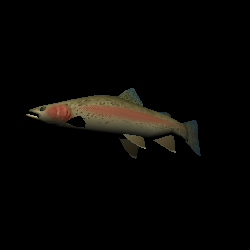
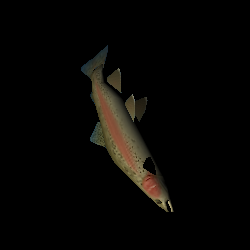
Add randomness to images with rotation

Changed region(s): [[0.112, 0.168, 0.812, 0.868]]

diff --git a/main.cpp b/main.cpp
@@ -52,7 +52,8 @@ struct SingleImageConfiguration {
 	const std::string outputPath = "../rendered.png";
 	const Ogre::uint32 width;
 	const Ogre::uint32 height;
-	const std::function< Ogre::Vector3 (const Ogre::Vector3& point) > randomnessProvider = [] (const Ogre::Vector3& point) { return point; };
+	const std::function< Ogre::Vector3 (const Ogre::Vector3& point) > randomnessProviderPosition = [] (const Ogre::Vector3& point) { return point; };
+	const std::function< Ogre::Radian () > randomnessProviderRotation = [] () { return Ogre::Radian(); };
 };
 
 struct ProcessConfigurator {
@@ -61,6 +62,7 @@ struct ProcessConfigurator {
 
 void create(const ProcessConfigurator& configurator) {
 	const auto initialCameraPosition = Ogre::Vector3(0, 0, 15);
+	const auto lookAtVector = Ogre::Vector3(0, 0, -1);
 
 	auto app = SyntheticImageGenerator();
 	app.initApp();
@@ -82,7 +84,7 @@ void create(const ProcessConfigurator& configurator) {
 	// also need to tell where we are
 	Ogre::SceneNode *camNode = scnMgr->getRootSceneNode()->createChildSceneNode();
 	camNode->setPosition(initialCameraPosition);
-	camNode->lookAt(Ogre::Vector3(0, 0, -1), Ogre::Node::TS_PARENT);
+	camNode->lookAt(lookAtVector, Ogre::Node::TS_PARENT);
 
 	// create the camera
 	Ogre::Camera *cam = scnMgr->createCamera("myCam");
@@ -139,22 +141,28 @@ void create(const ProcessConfigurator& configurator) {
 			loadLocalMesh(meshName, image.inputMesh);
 		}
 
-		auto newPos = image.randomnessProvider(camNode->getPosition());
+		auto newPos = image.randomnessProviderPosition(camNode->getPosition());
 		camNode->setPosition(newPos);
-		camNode->lookAt(Ogre::Vector3(0, 0, -1), Ogre::Node::TS_PARENT);
+
+		auto newRot = image.randomnessProviderRotation();
+		camNode->rotate(camNode->getPosition() - lookAtVector, newRot);
+
+		camNode->lookAt(lookAtVector, Ogre::Node::TS_PARENT);
 
 		Ogre::Entity *ent = scnMgr->createEntity(meshName);
 		node->attachObject(ent);
 
-		renderTexture->update();
 
+		renderTexture->update();
 		renderTexture->writeContentsToFile(image.outputPath);
+
 
 		node->detachObject(ent);
 		scnMgr->destroyEntity(ent);
 
 		camNode->setPosition(initialCameraPosition);
-		camNode->lookAt(Ogre::Vector3(0, 0, -1), Ogre::Node::TS_PARENT);
+		camNode->resetOrientation();
+		camNode->lookAt(lookAtVector, Ogre::Node::TS_PARENT);
 	}
 
 	app.closeApp();
@@ -170,7 +178,7 @@ int main() {
 		.outputPath = "../rendered.png",
 		.width = 250,
 		.height = 250,
-		.randomnessProvider = [&generator] (const Ogre::Vector3& point) {
+		.randomnessProviderPosition = [&generator] (const Ogre::Vector3& point) {
 			std::normal_distribution<Ogre::Real> distributionX(point.x,25.0);
 			std::normal_distribution<Ogre::Real> distributionY(point.y,5.0);
 			std::normal_distribution<Ogre::Real> distributionZ(point.z,5.0);
@@ -179,6 +187,10 @@ int main() {
 				distributionY(generator),
 				distributionZ(generator)
 			);
+		},
+		.randomnessProviderRotation = [&generator] () {
+			std::normal_distribution<Ogre::Real> distributionAngle(0, 10);
+			return Ogre::Degree(distributionAngle(generator));
 		},
 	});
 	configurator.imagesConfigurations.emplace_back(SingleImageConfiguration {

diff --git a/README.md b/README.md
@@ -14,7 +14,7 @@ configurator.imagesConfigurations.emplace_back(SingleImageConfiguration {
     .outputPath = "../rendered.png", //image name
     .width = 250, //image width
     .height = 250, //image height
-    .randomnessProvider = [&generator] (const Ogre::Vector3& point) { 
+    .randomnessProviderPosition = [&generator] (const Ogre::Vector3& point) { 
         // Provides a random variation on a point
         // This is for moving the camera a bit
         std::normal_distribution<Ogre::Real> distributionX(point.x, 25.0);
@@ -25,6 +25,11 @@ configurator.imagesConfigurations.emplace_back(SingleImageConfiguration {
             distributionY(generator),
             distributionZ(generator)
         );
-    }
+    },
+    .randomnessProviderRotation = [&generator] () {
+        // Provides a random rotation for the camera
+        std::normal_distribution<Ogre::Real> distributionAngle(0, 10);
+        return Ogre::Degree(distributionAngle(generator));
+    },
 });
 ```
